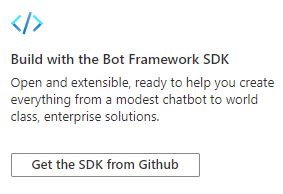
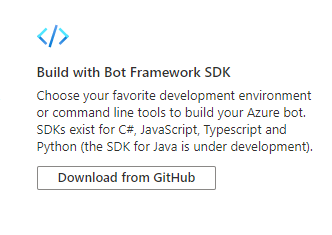
Fixed Github to GitHub (#2912)

diff --git a/articles/includes/azure-bot-resource/azure-bot-resource.md b/articles/includes/azure-bot-resource/azure-bot-resource.md
@@ -31,7 +31,7 @@ Create the **Azure Bot** resource, which will allow you to register your bot wit
 1. Select **Review + create**.
 1. If the validation passes, select **Create**.
 1. Select **Go to resource group**. You should see the bot and related resources listed in the resource group you selected.
-1. Select **Get the SDK from Github** to build your bot with the Bot Framework SDK.
+1. Select **Get the SDK from GitHub** to build your bot with the Bot Framework SDK.
 
     :::image type="content" source="../../media/azure-manage-a-bot/azure-bot-create-sdk.png" alt-text="Create bot in SDK":::
 
